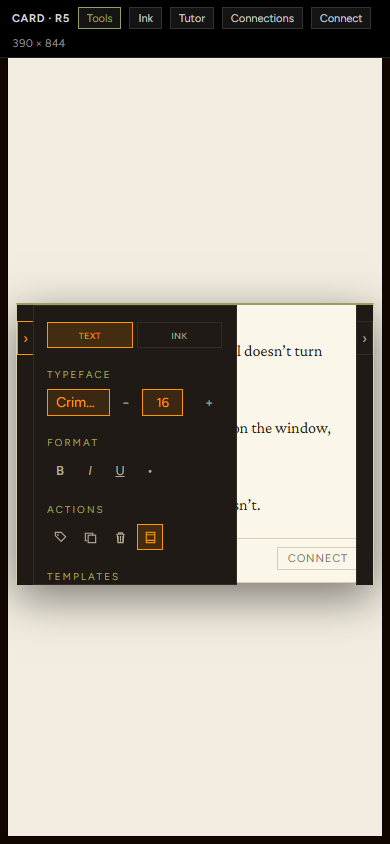
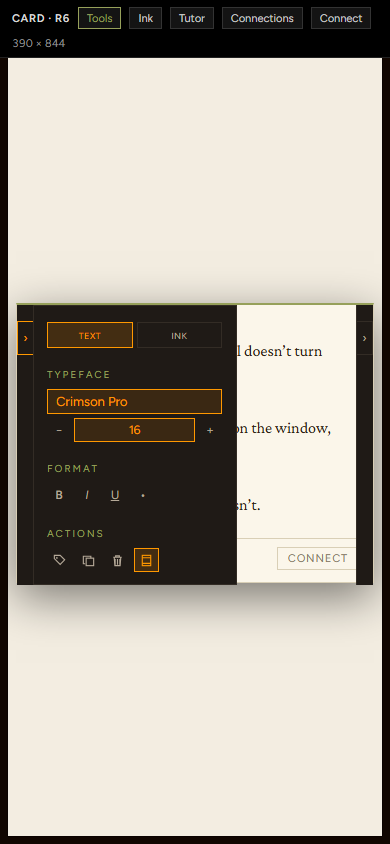
Round 6 card mockup: clip-slide drawers, untruncated typeface, Header/Footer hides chrome.

diff --git a/docs/mockups/cards/index.html b/docs/mockups/cards/index.html
@@ -3,13 +3,11 @@
 <head>
 <meta charset="utf-8">
 <meta name="viewport" content="width=device-width, initial-scale=1">
-<title>Wrizo · Card mockup · round 5</title>
+<title>Wrizo · Card mockup · round 6</title>
 <!--
-  docs/mockups/cards — opened card. Same drawers as the page mockup.
-  Tabs stay at the card edge; only the arrow flips. Panel slides from behind.
-  Icons + tooltips for Actions / Templates. Brass on every selected control.
-  Title wears CONNECT’s look (UI font, caps, letter-spaced, light). Still editable.
-  CONNECTIONS tab sized to fit. Phone: overlay inward, card fully on screen.
+  docs/mockups/cards — FROZEN round 6. Tabs stay; menu clips at the tab and
+  translates its full width (no fade). Typeface name on its own row.
+  Header/Footer hides title + foot. Menu body type one step smaller.
   Branch: cursor/card-mockup.
 -->
 <style>
@@ -113,6 +111,8 @@
   }
   .card[data-composing='true'] .card-title,
   .card[data-composing='true'] .card-foot { opacity: .15; }
+  .card[data-hf='false'] .card-title,
+  .card[data-hf='false'] .card-foot { display: none; }
   .connect-btn {
     border: 1px solid var(--card-hairline); color: var(--ink-on-paper-low);
     padding: 4px 10px; font-size: 11px; letter-spacing: .08em; text-transform: uppercase;
@@ -126,20 +126,25 @@
     position: absolute; top: 0; bottom: 0; right: 100%;
     width: var(--pop-w); z-index: 6; pointer-events: none;
   }
-  .sliver .grip, .sliver .panel { pointer-events: auto; }
-  .sliver .panel {
+  .sliver .grip { pointer-events: auto; }
+  .sliver .clip {
     position: absolute; top: 0; bottom: 0; left: 0; right: 16px;
+    overflow: hidden; pointer-events: none;
+  }
+  .sliver[data-open='true'] .clip { pointer-events: auto; }
+  .sliver .panel {
+    position: absolute; inset: 0;
     overflow-y: auto; overflow-x: hidden;
     background: var(--desk-ground); border: 1px solid var(--ink-border); border-right: none;
-    opacity: 0; pointer-events: none; transform: translateX(6px);
-    transition: opacity var(--fade-dur) ease, transform var(--fade-dur) ease;
+    transform: translateX(100%);
+    transition: transform var(--fade-dur) ease;
   }
-  .sliver[data-open='true'] .panel { opacity: 1; pointer-events: auto; transform: translateX(0); }
+  .sliver[data-open='true'] .panel { transform: translateX(0); }
   .sliver .grip {
     position: absolute; top: 16px; right: 0; left: auto; width: 16px; height: 34px; z-index: 3;
     display: flex; align-items: center; justify-content: center;
     background: var(--desk-ground); border: 1px solid var(--ink-border); border-right: none;
-    color: var(--text-mid); font-size: 13px;
+    color: var(--text-mid); font-size: 12px;
     transition: color var(--fade-dur) ease, border-color var(--fade-dur) ease;
   }
   .sliver[data-open='true'] .grip { color: var(--brass); border-color: var(--brass); }
@@ -148,20 +153,25 @@
     position: absolute; top: 0; bottom: 0; left: 100%;
     width: var(--pop-w); z-index: 6; pointer-events: none;
   }
-  .popout .grip, .popout .panel { pointer-events: auto; }
-  .popout .panel {
+  .popout .grip { pointer-events: auto; }
+  .popout .clip {
     position: absolute; top: 0; bottom: 0; left: 16px; right: 0;
+    overflow: hidden; pointer-events: none;
+  }
+  .popout[data-open='true'] .clip { pointer-events: auto; }
+  .popout .panel {
+    position: absolute; inset: 0;
     overflow-y: auto; overflow-x: hidden;
     background: var(--desk-ground); border: 1px solid var(--ink-border); border-left: none;
-    opacity: 0; pointer-events: none; transform: translateX(-6px);
-    transition: opacity var(--fade-dur) ease, transform var(--fade-dur) ease;
+    transform: translateX(-100%);
+    transition: transform var(--fade-dur) ease;
   }
-  .popout[data-open='true'] .panel { opacity: 1; pointer-events: auto; transform: translateX(0); }
+  .popout[data-open='true'] .panel { transform: translateX(0); }
   .popout .grip {
     position: absolute; top: 16px; left: 0; width: 16px; height: 34px; z-index: 3;
     display: flex; align-items: center; justify-content: center;
     background: var(--desk-ground); border: 1px solid var(--ink-border); border-left: none;
-    color: var(--text-mid); font-size: 13px;
+    color: var(--text-mid); font-size: 12px;
     transition: color var(--fade-dur) ease, border-color var(--fade-dur) ease;
   }
   .popout[data-open='true'] .grip { left: 0; color: var(--brass); border-color: var(--brass); }
@@ -183,8 +193,8 @@
     background: color-mix(in srgb, var(--brass) 16%, transparent);
   }
   .mode-tbtn {
-    min-width: 26px; height: 26px; padding: 0 4px; border: 1px solid transparent;
-    color: var(--text-mid); font-size: 13px; display: inline-flex; align-items: center; justify-content: center;
+    min-width: 24px; height: 24px; padding: 0 4px; border: 1px solid transparent;
+    color: var(--text-mid); font-size: 12px; display: inline-flex; align-items: center; justify-content: center;
   }
   .mode-tbtn:hover { border-color: var(--ink-border); color: var(--text-hi); }
   .mode-tbtn[data-on='true'] {
@@ -194,43 +204,44 @@
   .mode-tbtn.is-dead { opacity: .45; cursor: default; pointer-events: none; }
   .mode-tbtn svg { display: block; }
   .row { display: flex; align-items: center; flex-wrap: wrap; gap: 4px; }
-  .type-row { display: grid; grid-template-columns: minmax(0, 1fr) 26px 3.2em 26px; gap: 3px; width: 100%; }
+  .type-stack { display: flex; flex-direction: column; gap: 4px; width: 100%; }
+  .type-row { display: grid; grid-template-columns: 24px minmax(0, 1fr) 24px; gap: 3px; width: 100%; }
   .size-row { display: grid; grid-template-columns: 24px minmax(0, 1fr) 24px; gap: 3px; width: 100%; }
   .wz-type-face, .size-val {
-    min-width: 0; text-align: center; padding: 4px 8px; color: var(--brass);
-    border: 1px solid var(--brass); font-size: 14px; white-space: nowrap; overflow: hidden; text-overflow: ellipsis;
+    width: 100%; text-align: center; padding: 4px 8px; color: var(--brass);
+    border: 1px solid var(--brass); font-size: 13px; white-space: nowrap;
     background: color-mix(in srgb, var(--brass) 12%, transparent);
   }
   .wz-type-face { text-align: left; }
-  .size-val { font-size: 11px; letter-spacing: .04em; padding: 4px 9px; }
+  .size-val { font-size: 10px; letter-spacing: .04em; padding: 4px 9px; }
   .wz-type-num {
-    width: 3.2em; text-align: center; padding: 3px 2px; color: var(--brass);
-    border: 1px solid var(--brass); font-size: 13px;
+    width: auto; min-width: 0; text-align: center; padding: 3px 2px; color: var(--brass);
+    border: 1px solid var(--brass); font-size: 12px;
     background: color-mix(in srgb, var(--brass) 12%, transparent);
   }
   .wz-type-list { list-style: none; border: 1px solid var(--ink-border); }
-  .wz-type-row { padding: 4px 8px; font-size: 14px; color: var(--text-hi); cursor: pointer; }
+  .wz-type-row { padding: 4px 8px; font-size: 13px; color: var(--text-hi); cursor: pointer; }
   .wz-type-row[data-current='true'] {
     color: var(--brass); background: color-mix(in srgb, var(--brass) 12%, transparent);
   }
   .item-btn {
     display: block; width: 100%; text-align: left; border: 1px solid var(--ink-border);
-    color: var(--text-mid); font-size: 13px; padding: 8px 10px;
+    color: var(--text-mid); font-size: 12px; padding: 7px 9px;
   }
   .item-btn:hover { color: var(--text-hi); }
   .item-btn.danger:hover { color: var(--brick); }
   .tmpl { display: flex; flex-wrap: wrap; gap: 4px; }
   .tmpl .item-btn { width: auto; padding: 6px 10px; }
   .item-btn.is-dead { opacity: .45; cursor: default; pointer-events: none; }
-  .chip { border: 1px solid var(--ink-border); color: var(--text-mid); font-size: 11px; padding: 3px 7px; }
+  .chip { border: 1px solid var(--ink-border); color: var(--text-mid); font-size: 10px; padding: 3px 7px; }
   .chip[data-on='true'] {
     color: var(--brass); border-color: var(--brass);
     background: color-mix(in srgb, var(--brass) 12%, transparent);
   }
   .tag-pop { display: flex; flex-wrap: wrap; gap: 4px; }
-  .confirm .q { font-size: 12px; color: var(--text-hi); margin-bottom: 6px; }
-  .confirm .go { border: 1px solid var(--brick); color: var(--brick); padding: 4px 8px; font-size: 12px; }
-  .confirm .no { border: 1px solid var(--ink-border); color: var(--text-mid); padding: 4px 8px; font-size: 12px; }
+  .confirm .q { font-size: 11px; color: var(--text-hi); margin-bottom: 6px; }
+  .confirm .go { border: 1px solid var(--brick); color: var(--brick); padding: 4px 8px; font-size: 11px; }
+  .confirm .no { border: 1px solid var(--ink-border); color: var(--text-mid); padding: 4px 8px; font-size: 11px; }
   .mode-swatch { width: 22px; height: 22px; border: 1px solid var(--ink-border-strong); }
   .mode-swatch.active { outline: 2px solid var(--brass); outline-offset: 1px; }
 
@@ -252,17 +263,17 @@
     color: var(--brass); border-bottom-color: var(--brass);
     background: color-mix(in srgb, var(--brass) 12%, transparent);
   }
-  .math, .empty, .focus-bar { font-size: 11px; color: var(--text-low); line-height: 1.4; }
+  .math, .empty, .focus-bar { font-size: 10px; color: var(--text-low); line-height: 1.4; }
   .grp { font-size: 10px; letter-spacing: 2px; text-transform: uppercase; color: var(--text-mid); margin: 10px 0 4px; }
   .lrow { display: flex; align-items: center; gap: 4px; }
-  .open { flex: 1; min-width: 0; text-align: left; display: flex; gap: 6px; padding: 6px 4px; color: var(--text-mid); font-size: 13px; }
+  .open { flex: 1; min-width: 0; text-align: left; display: flex; gap: 6px; padding: 6px 4px; color: var(--text-mid); font-size: 12px; }
   .open:hover { color: var(--text-hi); background: var(--ink-800); }
   .kind { font-size: 10px; letter-spacing: 1px; text-transform: uppercase; color: var(--text-low); }
   .lab { flex: 1; min-width: 0; overflow: hidden; text-overflow: ellipsis; white-space: nowrap; }
   .unlink { color: var(--text-low); font-size: 11px; padding: 2px 6px; }
   .ask { display: flex; gap: 6px; }
-  .ask input { flex: 1; min-width: 0; background: var(--ink-800); border: 1px solid var(--ink-border); color: var(--text-hi); font-size: 13px; padding: 8px; }
-  .ask button { border: 1px solid var(--ink-border); color: var(--text-mid); padding: 0 10px; font-size: 12px; }
+  .ask input { flex: 1; min-width: 0; background: var(--ink-800); border: 1px solid var(--ink-border); color: var(--text-hi); font-size: 12px; padding: 7px; }
+  .ask button { border: 1px solid var(--ink-border); color: var(--text-mid); padding: 0 10px; font-size: 11px; }
   .thumbs { display: grid; grid-template-columns: repeat(2, minmax(0, 1fr)); gap: 8px; }
   .thumb { text-align: left; color: var(--text-mid); }
   .thumb .pic {
@@ -273,19 +284,19 @@
   .thumb .pic.page { background: var(--paper); border-top: 2px solid var(--accent-rest); }
   .thumb .pic.doc { background: var(--ink-800); color: var(--text-mid); font-family: var(--font-ui); }
   .thumb .cap { font-size: 10px; margin-top: 4px; }
-  .switch-board { width: 100%; border: 1px solid var(--ink-border); color: var(--text-mid); padding: 6px 8px; text-align: left; font-size: 13px; }
-  .board-list button { display: block; width: 100%; text-align: left; padding: 6px 8px; color: var(--text-mid); font-size: 13px; }
+  .switch-board { width: 100%; border: 1px solid var(--ink-border); color: var(--text-mid); padding: 6px 8px; text-align: left; font-size: 12px; }
+  .board-list button { display: block; width: 100%; text-align: left; padding: 6px 8px; color: var(--text-mid); font-size: 12px; }
   .board-list button[data-current='true'] { color: var(--brass); }
 
   .toast {
     position: fixed; left: 50%; bottom: 18px; transform: translateX(-50%); z-index: 50;
     background: var(--ink-900); border: 1px solid var(--ink-border);
-    color: var(--text-hi); font-size: 13px; padding: 8px 14px; opacity: 0; pointer-events: none;
+    color: var(--text-hi); font-size: 12px; padding: 8px 14px; opacity: 0; pointer-events: none;
   }
   .toast[data-on='true'] { opacity: 1; }
 
   @media (prefers-reduced-motion: reduce) {
-    .sliver .panel, .popout .panel, .sliver .grip, .popout .grip, .card-title, .card-foot { transition: none; }
+    .sliver .panel, .popout .panel { transition: none; }
   }
 
   @media (max-width: 720px) {
@@ -296,8 +307,8 @@
     .ghost { display: none; }
     .cluster { justify-content: center; }
     .card { width: calc(100% - 16px); min-height: 280px; margin: 0; }
-    .sliver { right: auto; left: 0; width: 16px; }
-    .popout { left: auto; right: 0; width: 16px; }
+    .sliver { right: auto; left: 0; width: min(var(--pop-w), 78%); }
+    .popout { left: auto; right: 0; width: min(var(--pop-w), 78%); }
     .sliver::before, .popout::before {
       content: ''; position: absolute; top: 0; bottom: 0; width: 16px;
       background: var(--desk-ground); z-index: 2; pointer-events: none;
@@ -305,14 +316,14 @@
     .sliver::before { left: 0; border-right: 1px solid var(--ink-border); }
     .popout::before { right: 0; border-left: 1px solid var(--ink-border); }
     .sliver .grip { left: 0; right: auto; border-right: none; border-left: 1px solid var(--ink-border); }
-    .sliver .panel { left: 16px; right: 0; border-right: 1px solid var(--ink-border); border-left: none; transform: translateX(-6px); }
+    .sliver .clip { left: 16px; right: 0; }
+    .sliver .panel { border-right: 1px solid var(--ink-border); border-left: none; transform: translateX(-100%); }
     .sliver[data-open='true'] .panel { transform: translateX(0); }
     .popout .grip { left: auto; right: 0; }
-    .popout .panel { left: 0; right: 16px; border-left: 1px solid var(--ink-border); border-right: none; transform: translateX(6px); }
+    .popout .clip { left: 0; right: 16px; }
+    .popout .panel { border-left: 1px solid var(--ink-border); border-right: none; transform: translateX(100%); }
     .popout[data-open='true'] .panel { transform: translateX(0); }
-    .sliver[data-open='true'], .popout[data-open='true'] {
-      width: min(var(--pop-w), 78%); z-index: 8;
-    }
+    .sliver[data-open='true'], .popout[data-open='true'] { z-index: 8; }
     .tab { letter-spacing: .4px; font-size: 9px; }
     .tab[data-tab="connections"] { font-size: 7px; letter-spacing: .02em; }
   }
@@ -320,7 +331,7 @@
 </head>
 <body data-hand="text" data-tool="pen">
 <header class="rig">
-  <b>CARD · R5</b>
+  <b>CARD · R6</b>
   <button class="rev" data-view="tools" type="button">Tools</button>
   <button class="rev" data-view="ink" type="button">Ink</button>
   <button class="rev" data-view="tutor" type="button">Tutor</button>
@@ -343,8 +354,9 @@
         <article class="ghost g2"><div class="k">Page</div><div class="t">Chapter 3</div></article>
         <article class="ghost g3"><div class="k">Ink</div><div class="t">Kitchen map</div></article>
         <div class="cluster">
-          <article class="card" id="card">
+          <article class="card" id="card" data-hf="true">
             <aside class="sliver" id="sliver" data-open="true" data-hand="text">
+              <div class="clip">
               <div class="panel">
                 <div class="body">
                   <div class="tabs" role="radiogroup">
@@ -354,11 +366,13 @@
                   <div id="textTools">
                     <div class="sec">
                       <div class="h">Typeface</div>
-                      <div class="type-row">
+                      <div class="type-stack">
                         <button class="wz-type-face" id="faceBtn" type="button">Crimson Pro</button>
-                        <button class="mode-tbtn" id="sizeDown" type="button">−</button>
-                        <input class="wz-type-num" id="sizeNum" value="16" readonly>
-                        <button class="mode-tbtn" id="sizeUp" type="button">+</button>
+                        <div class="type-row">
+                          <button class="mode-tbtn" id="sizeDown" type="button">−</button>
+                          <input class="wz-type-num" id="sizeNum" value="16" readonly>
+                          <button class="mode-tbtn" id="sizeUp" type="button">+</button>
+                        </div>
                       </div>
                       <ul class="wz-type-list" id="faceList" hidden>
                         <li class="wz-type-row" data-current="true" data-face="Crimson Pro" data-stack="'Crimson Pro', Georgia, serif">Crimson Pro</li>
@@ -464,11 +478,13 @@
                   </div>
                 </div>
               </div>
+              </div>
               <button class="grip" id="sliverGrip" type="button" aria-expanded="true">›</button>
             </aside>
 
             <aside class="popout" id="popout" data-open="true">
               <button class="grip" id="popGrip" type="button" aria-expanded="true">‹</button>
+              <div class="clip">
               <div class="panel">
                 <div class="body">
                   <div class="tabs" role="radiogroup">
@@ -517,6 +533,7 @@
                     </div>
                   </div>
                 </div>
+              </div>
               </div>
             </aside>
 
@@ -721,7 +738,9 @@ He could say her name. He doesn’t.</div>
   });
   $('copyBtn').addEventListener('click', () => toast('Copied (fake)'));
   $('hfBtn').addEventListener('click', () => {
-    $('hfBtn').dataset.on = $('hfBtn').dataset.on === 'true' ? 'false' : 'true';
+    const on = $('hfBtn').dataset.on !== 'true';
+    $('hfBtn').dataset.on = on ? 'true' : 'false';
+    $('card').dataset.hf = on ? 'true' : 'false';
   });
   $('deleteBtn').addEventListener('click', () => { $('deleteAsk').hidden = false; });
   $('deleteNo').addEventListener('click', () => { $('deleteAsk').hidden = true; });
